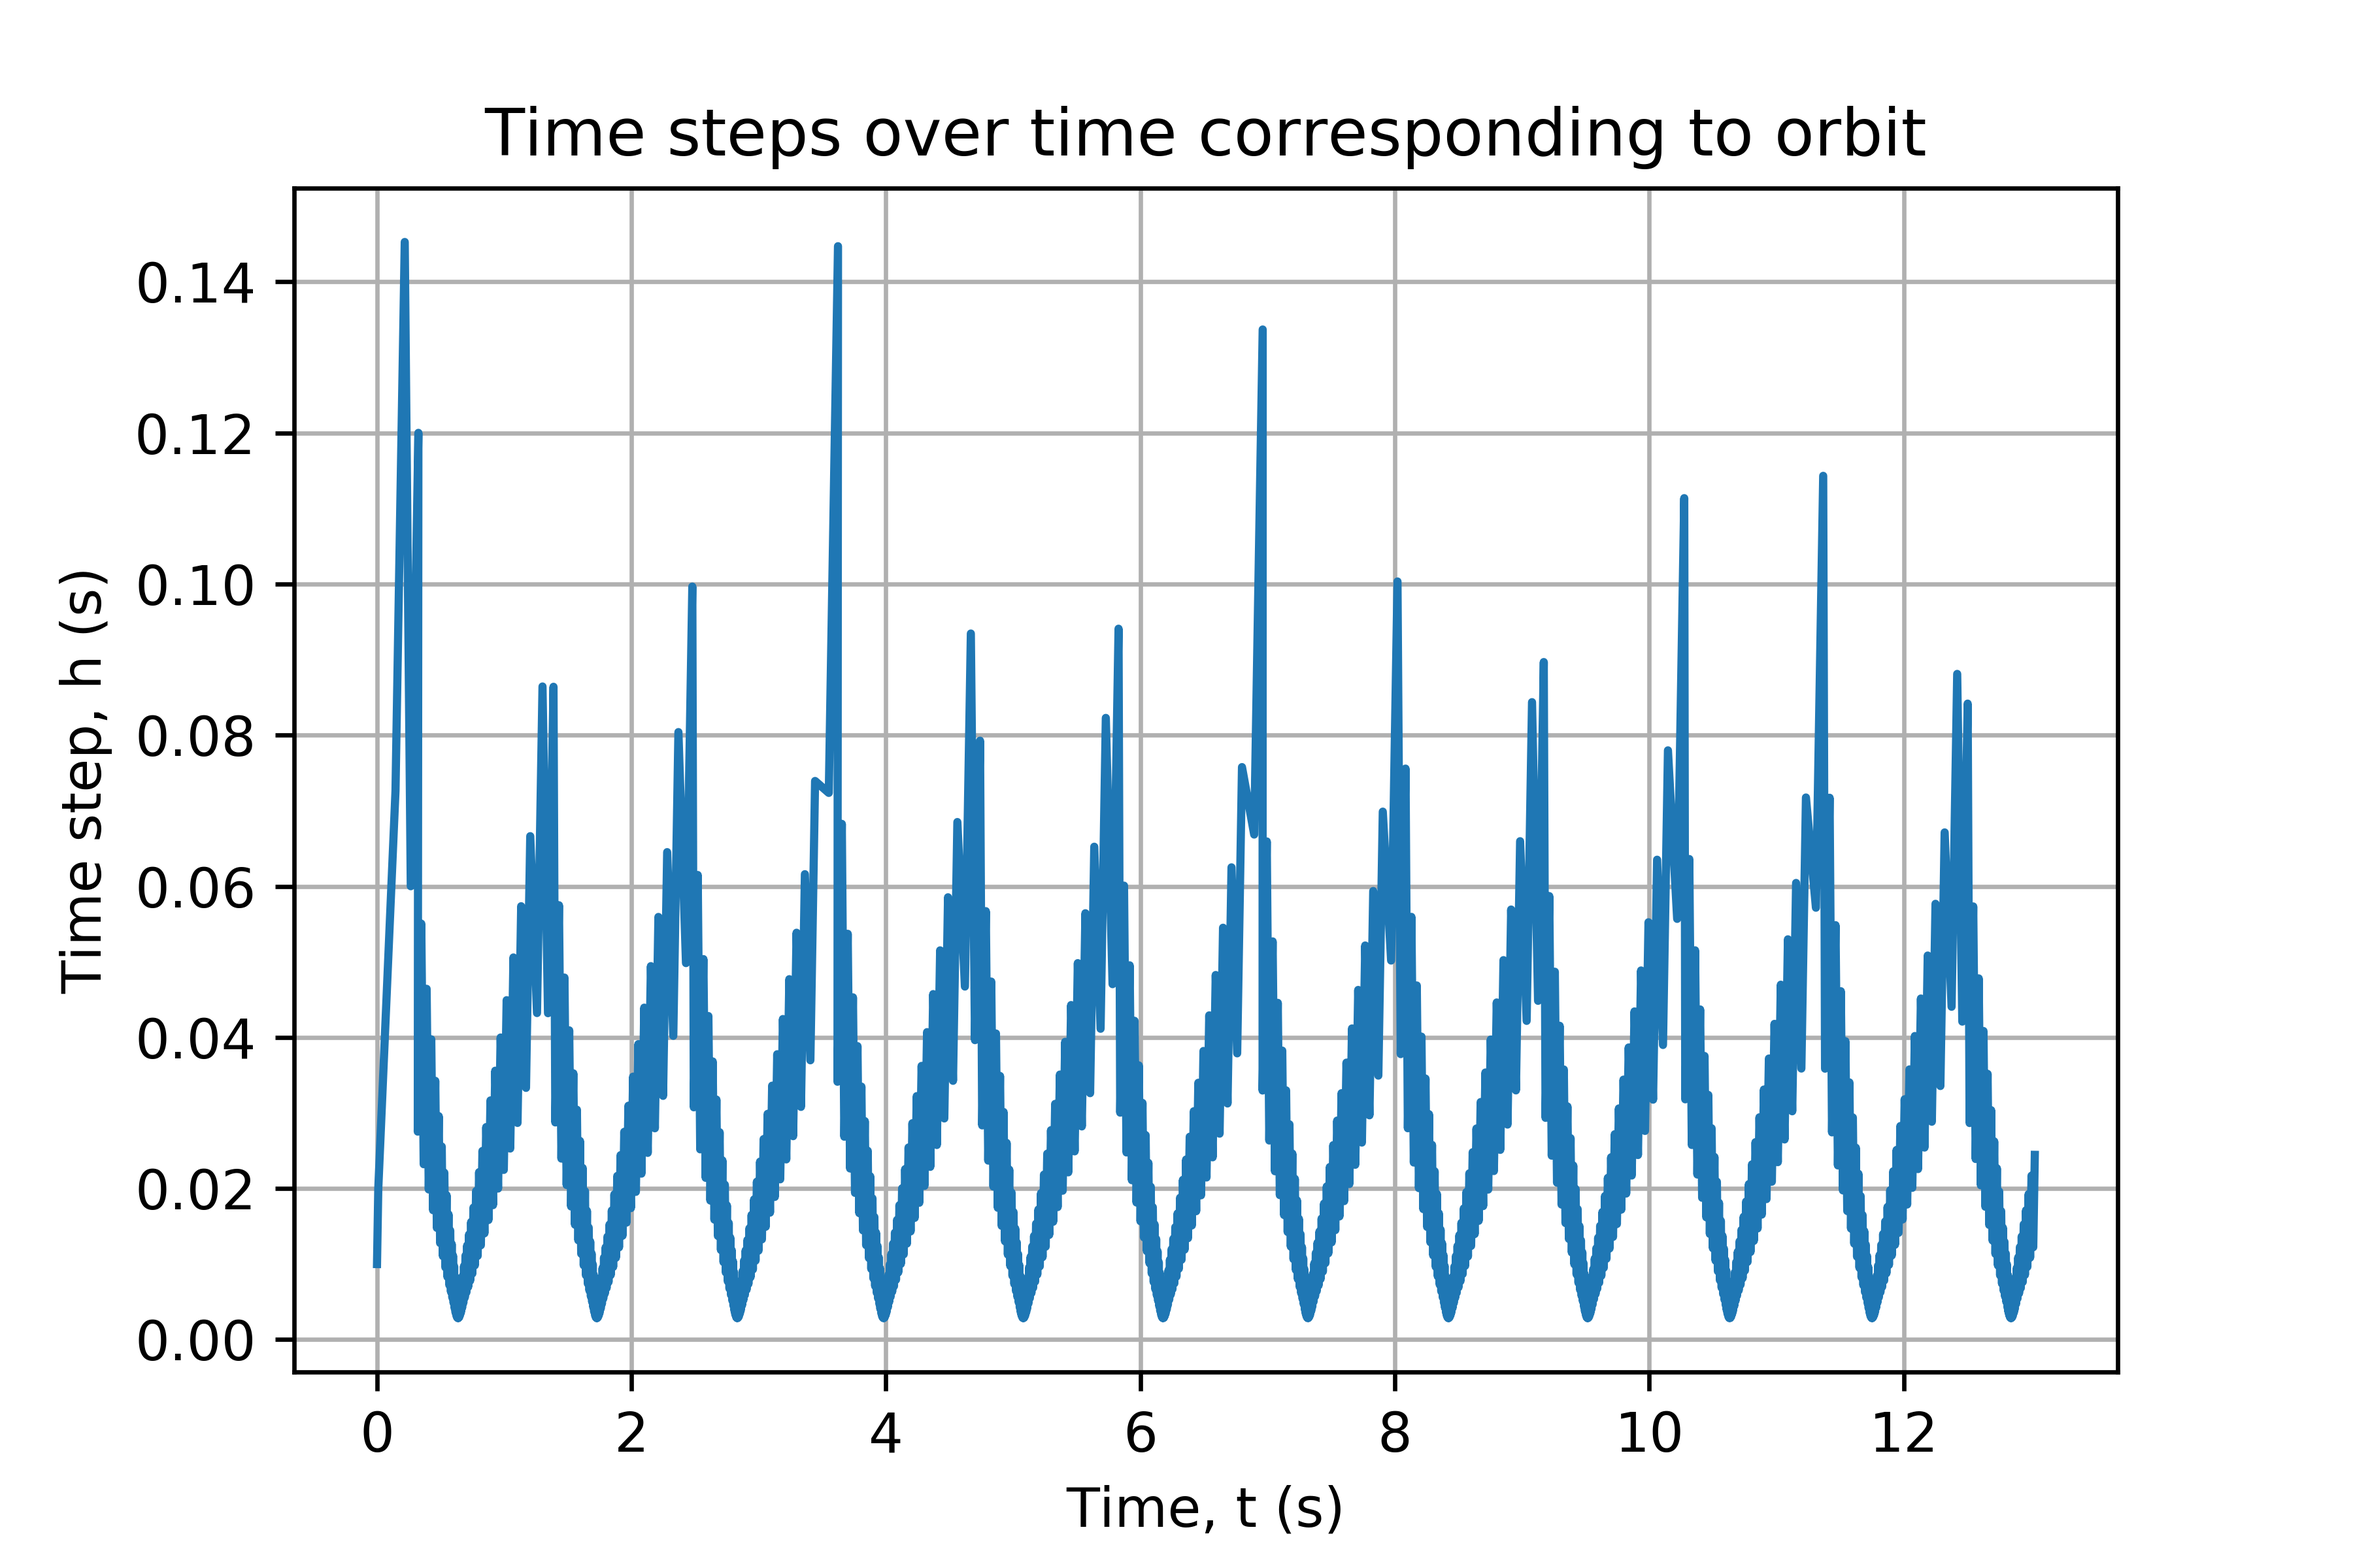
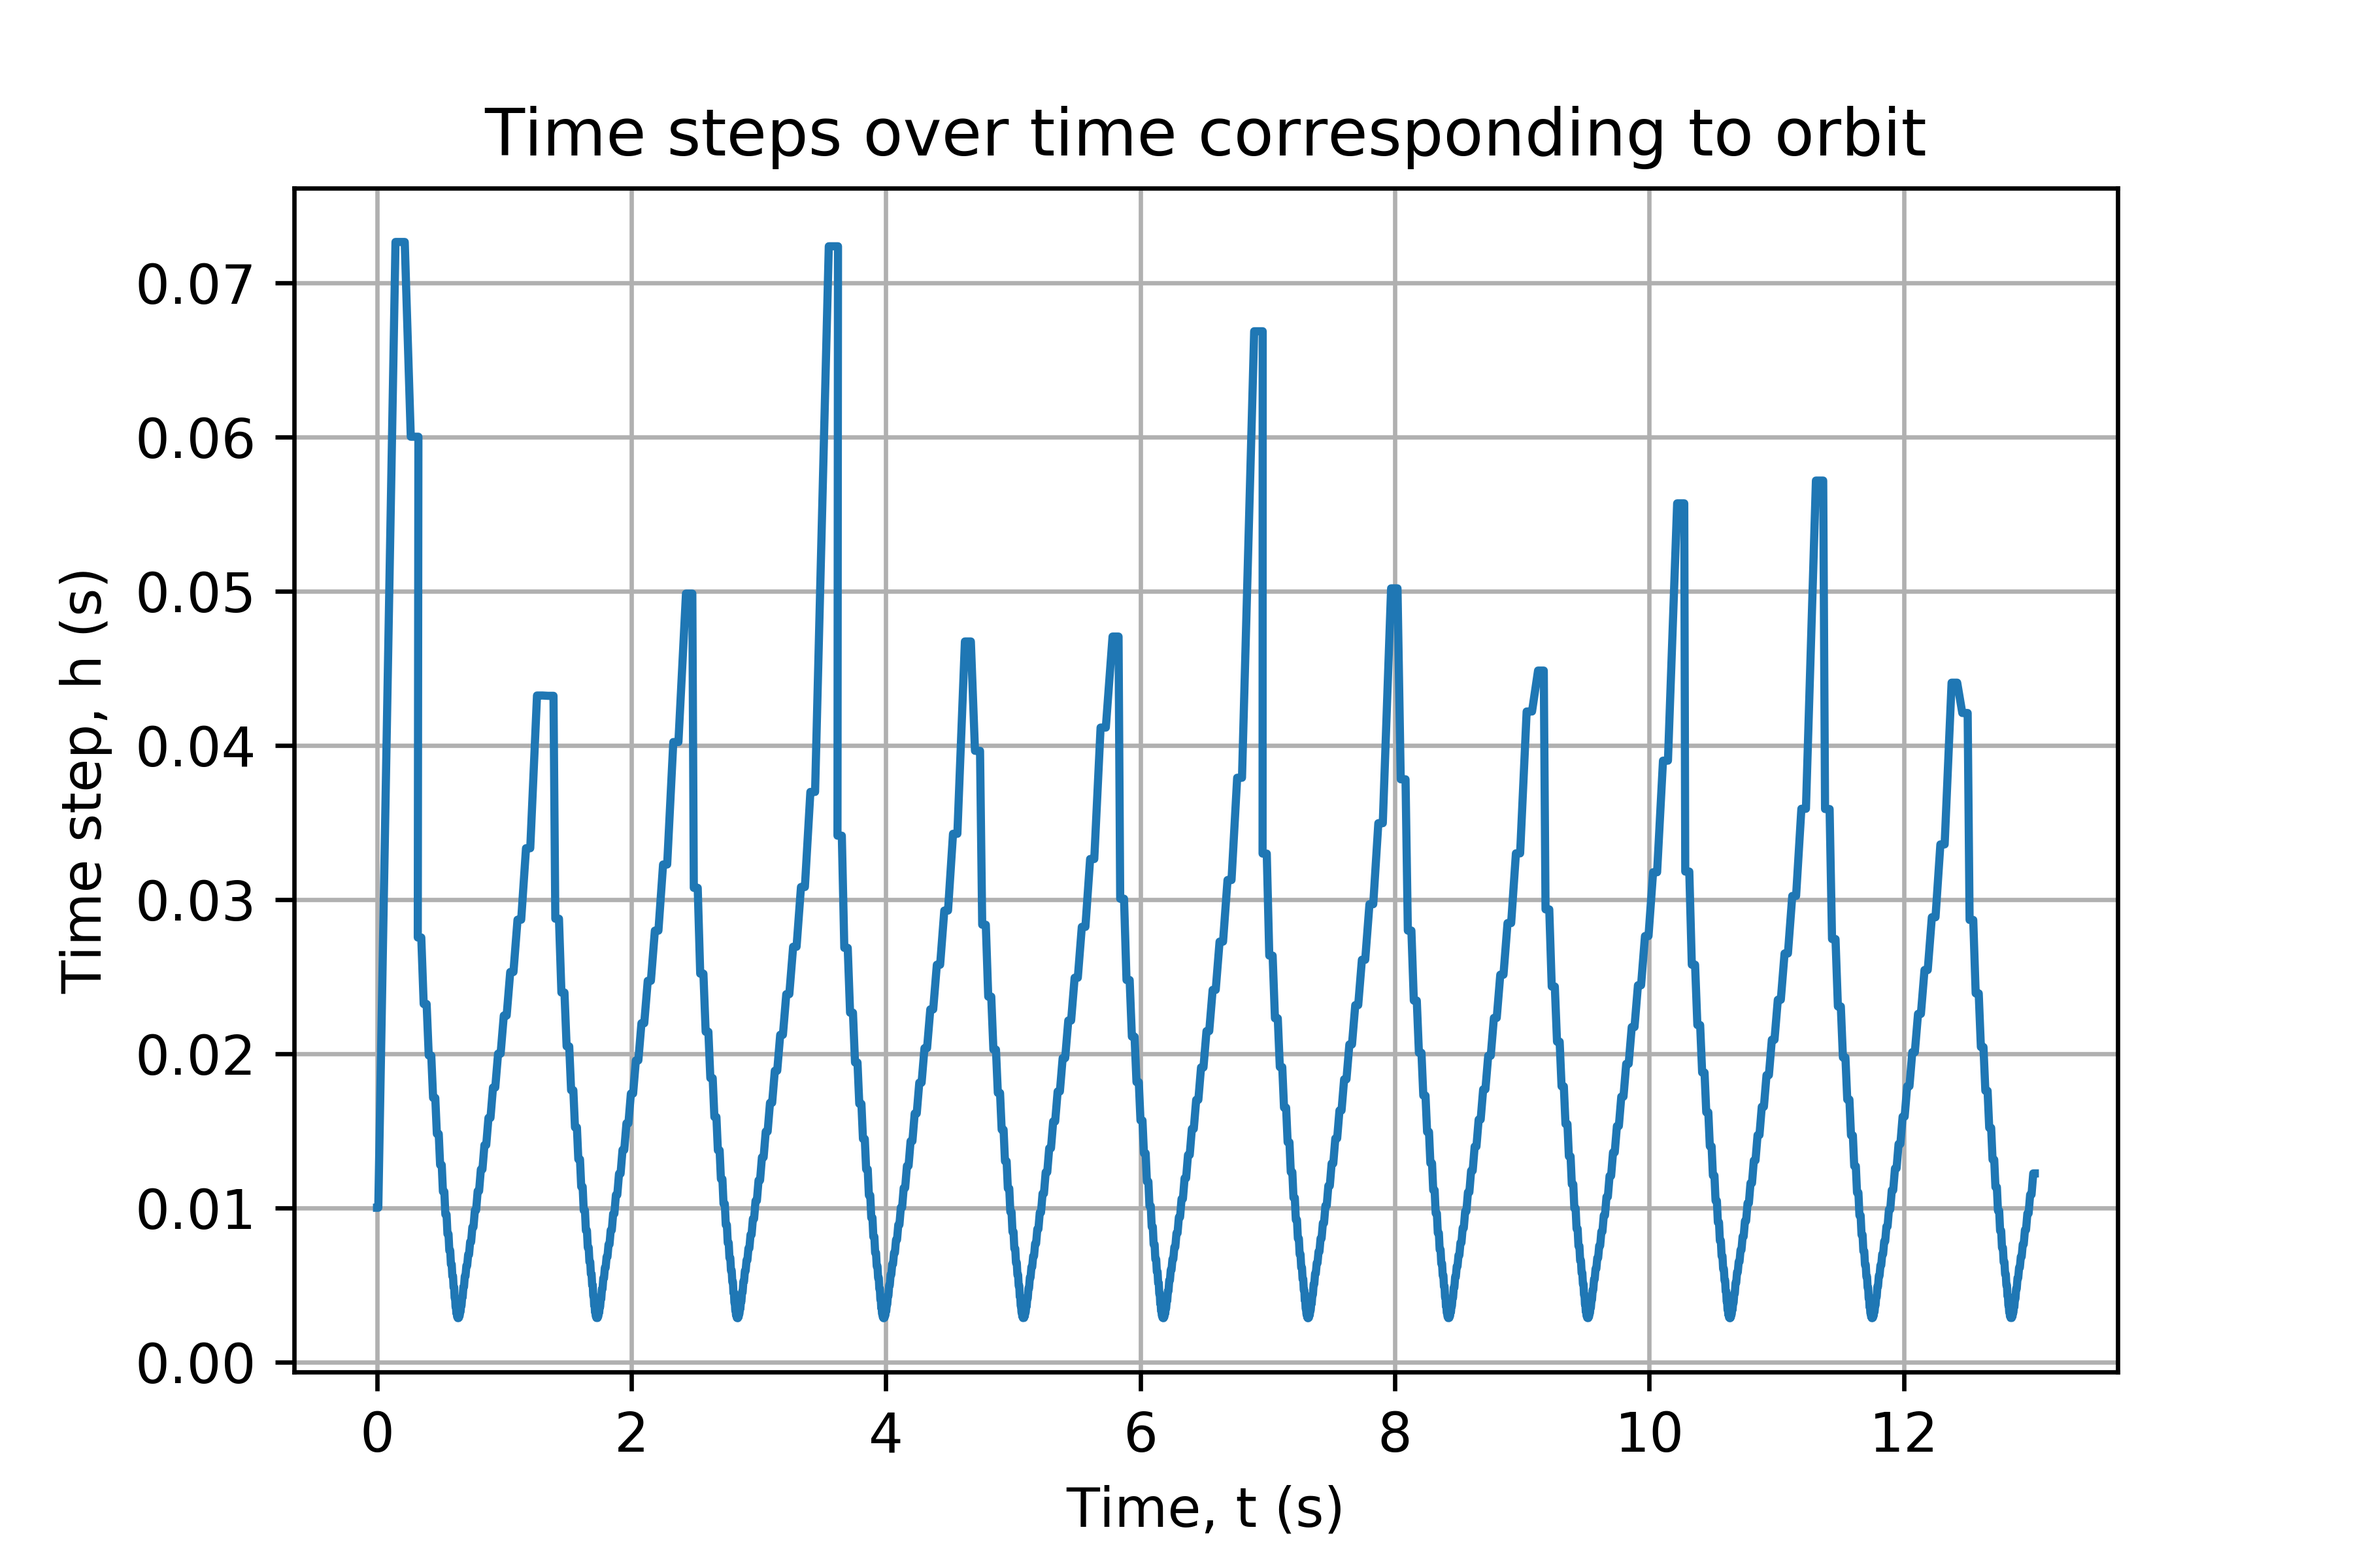
fixed q2 step plot

diff --git a/Lab07/code/Lab07_Q1.py b/Lab07/code/Lab07_Q1.py
@@ -120,7 +120,7 @@ start = time()
 #solve the ode
 for i in steps:
     time_step.append(h)
-    time_step.append(2*h)
+    time_step.append(h)
     timing.append(time_1)
     timing.append(time_1+h)
     #initialize rho

diff --git a/Lab07/tex_file/PHY407_Lab07.tex b/Lab07/tex_file/PHY407_Lab07.tex
@@ -63,6 +63,7 @@ The step size at each point is plotted over the total time in figure \ref{fig:q1
 	\label{fig:q1_c}
 \end{figure}
 
+
 \section{The Hydrogen Atom}
 
 \subsection{Part b)}
